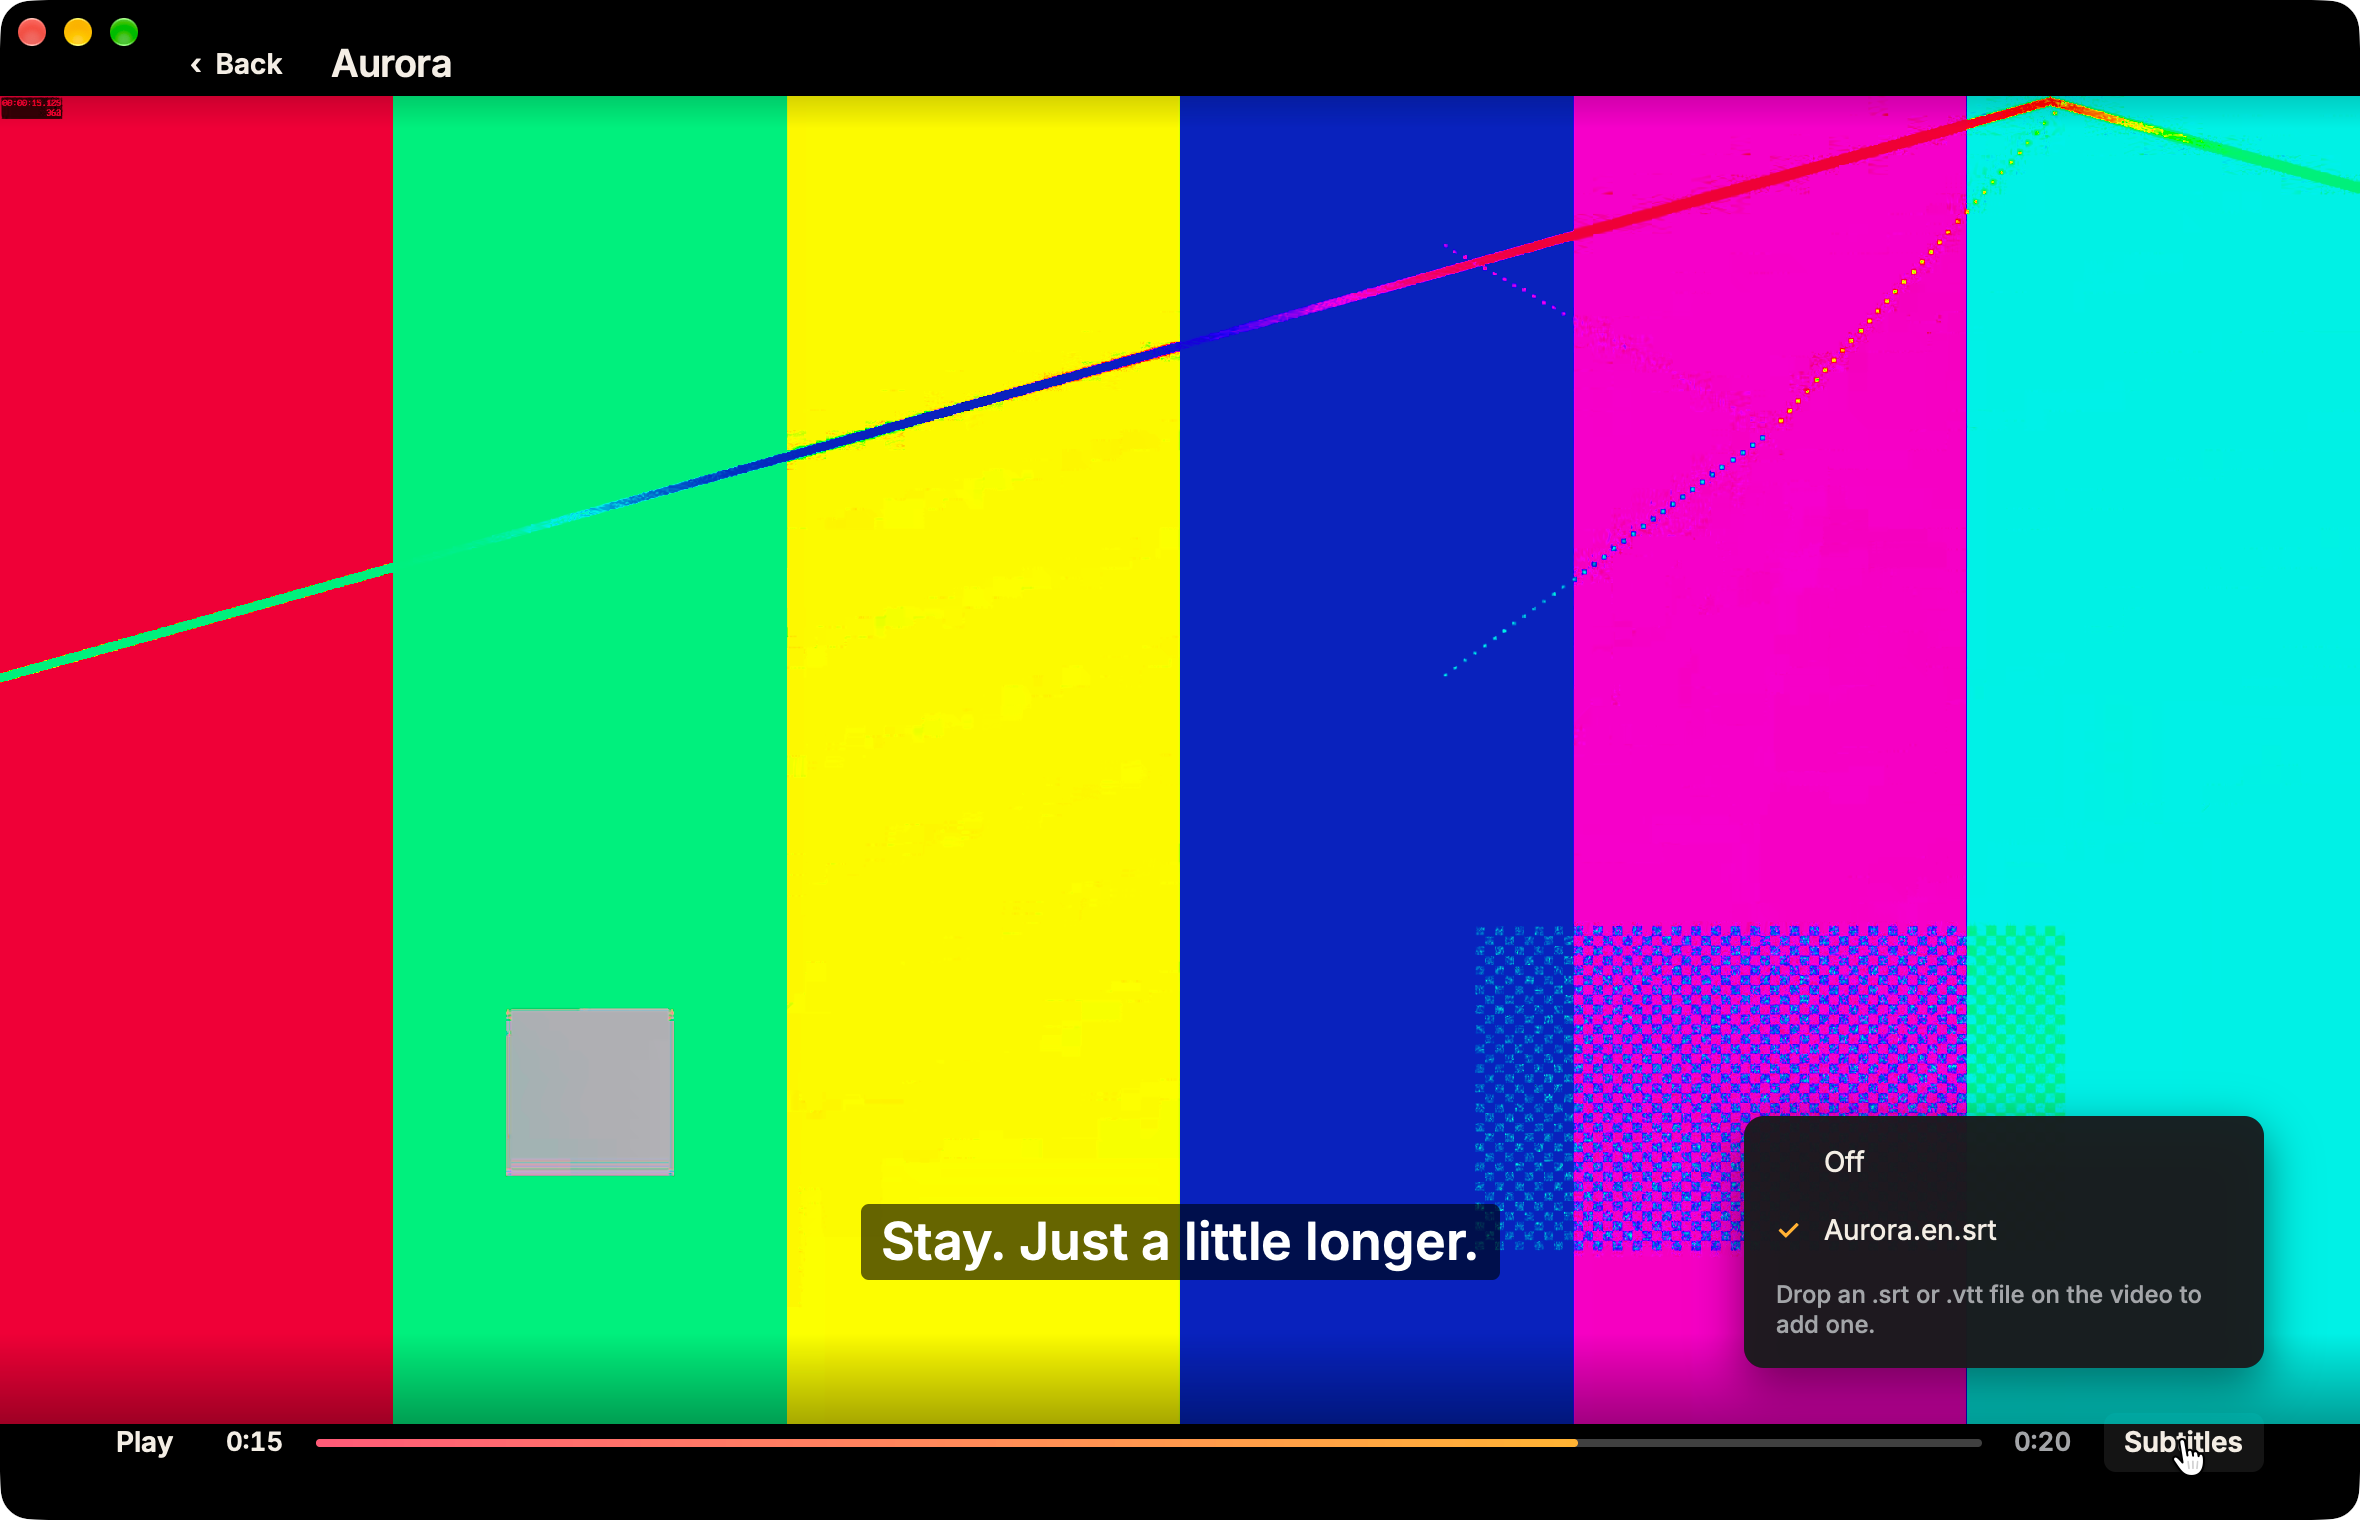
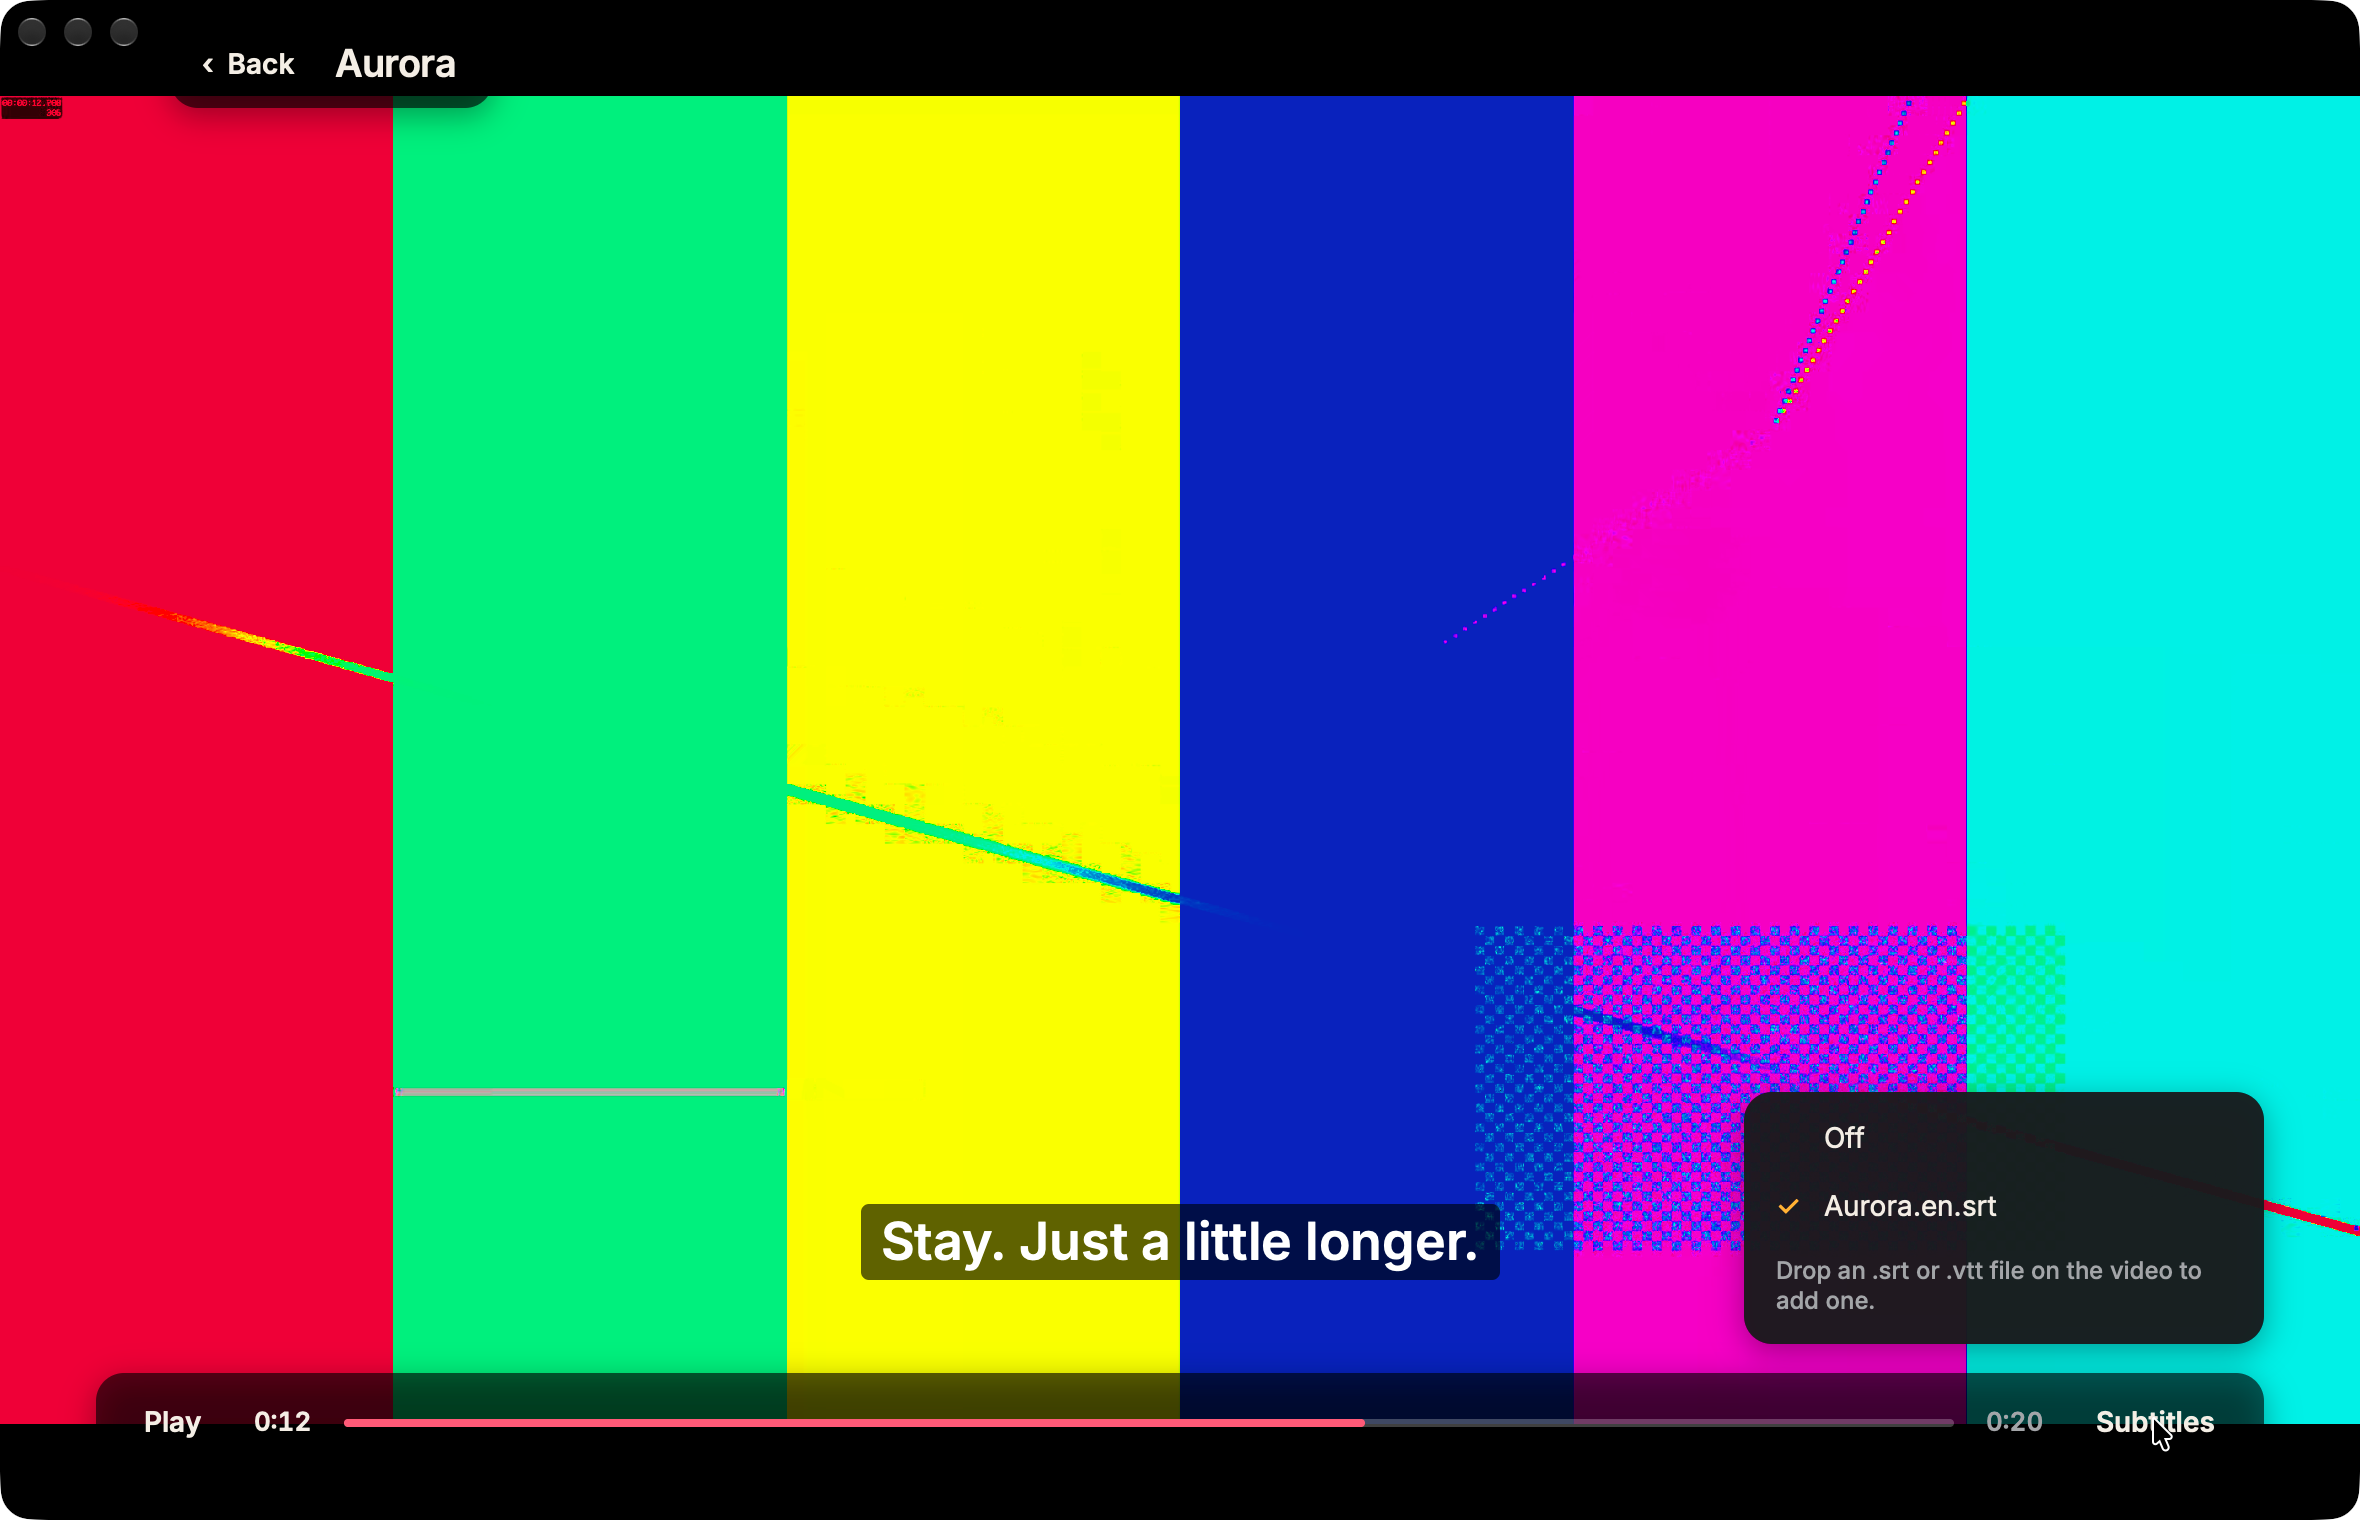
player: flat controls, no gradients (Ryan's rule)
The top and bottom gradient scrims are replaced by flat, darkened, rounded
surfaces with a soft shadow (Back and the title in one, the transport bar in
the other, inset by the gutter), and the seek bar's played part is a flat
coral instead of the coral-to-amber gradient. The look is a handful of
constants at the top of the view code (SURFACE_RADIUS, surface(),
surface_shadow(), track(), played(), SUBTITLE, TIME) so it can be retuned
when the app's visual system (FLK-48b) is picked. The screenshot is retaken
with it.

Verified: clippy -D warnings (flicks-ui, flicks-desktop), wasm32 check of
flicks-ui and flicks-web, cargo test -p flicks-ui -p flicks-desktop; the
release app on this Mac (docs/images/m2-player.png).

diff --git a/crates/ui/src/player.rs b/crates/ui/src/player.rs
@@ -313,7 +313,7 @@ fn subtitles(cues: &[Cue], controls: bool) -> El {
                     .px(10.0)
                     .py(2.0)
                     .radius(4.0)
-                    .fill(Color::BLACK.alpha(0.6)),
+                    .fill(surface()),
             );
         }
     }
@@ -322,24 +322,50 @@ fn subtitles(cues: &[Cue], controls: bool) -> El {
     col().key("subtitles").pin(Some(48.0), None, Some(48.0), Some(bottom)).items_center().child(lines)
 }
 
+// The player's look, in one place to retune with the app's visual system: flat, darkened
+// surfaces over the video, no gradients.
 const SUBTITLE: rune::TextStyle = rune::TextStyle::new(26.0, 500.0).lh(34.0);
 const TIME: rune::TextStyle = rune::TextStyle::new(13.0, 550.0).features("'tnum' 1");
+const SURFACE_RADIUS: f32 = 14.0;
+/// What the controls and subtitles sit on.
+fn surface() -> Color {
+    Color::BLACK.alpha(0.62)
+}
+fn surface_shadow() -> Color {
+    Color::BLACK.alpha(0.35)
+}
+/// The seek bar's track and the part played.
+fn track() -> Color {
+    Color::WHITE.alpha(0.25)
+}
+fn played() -> Color {
+    style::coral()
+}
 
 fn top(p: &Screen, cx: &mut Cx<Flicks>) -> El {
     let left = cx.titlebar_inset() + 16.0;
+    let title = row()
+        .key("player-title")
+        .h(44.0)
+        .pl(6.0)
+        .pr(18.0)
+        .gap(10.0)
+        .center_y()
+        .radius(SURFACE_RADIUS)
+        .fill(surface())
+        .shadow(4.0, 16.0, surface_shadow())
+        .on_hover_change(over_controls)
+        .child(button("player-back", "‹  Back", Flicks::close_player))
+        .child(text(p.name.clone()).font(style::HEADING).color(style::text()).truncate());
     row()
         .key("player-top")
         .pin(Some(0.0), Some(0.0), Some(0.0), None)
-        .h(64.0)
+        .h(style::BAR_H)
         .pl(left.max(style::GUTTER))
         .pr(style::GUTTER)
-        .gap(14.0)
         .center_y()
-        .gradient(Color::BLACK.alpha(0.6), Color::BLACK.alpha(0.0))
         .window_drag()
-        .on_hover_change(over_controls)
-        .child(button("player-back", "‹  Back", Flicks::close_player))
-        .child(text(p.name.clone()).font(style::HEADING).color(style::text()).truncate())
+        .child(title)
 }
 
 fn bottom(p: &Screen) -> El {
@@ -352,9 +378,13 @@ fn bottom(p: &Screen) -> El {
         .h(20.0)
         .center_y()
         .cursor(Cursor::Pointer)
-        .child(el().w_full().h(4.0).radius(2.0).fill(Color::WHITE.alpha(0.25)).child(
-            el().w_frac(fraction).h_full().radius(2.0).linear_gradient(std::f32::consts::PI / 2.0, style::progress()),
-        ))
+        .child(
+            el().w_full()
+                .h(4.0)
+                .radius(2.0)
+                .fill(track())
+                .child(el().w_frac(fraction).h_full().radius(2.0).fill(played())),
+        )
         .on_drag(move |s: &mut Flicks, drag: &mut Drag, _: &mut Tx| {
             let Some(p) = &mut s.player else { return };
             let at = (drag.x / drag.w.max(1.0)).clamp(0.0, 1.0) as f64 * duration;
@@ -388,12 +418,13 @@ fn bottom(p: &Screen) -> El {
     bar = bar.child(menu_button("subtitle-menu", "Subtitles", Menu::Subtitles));
     let mut panel = col()
         .key("player-bottom")
-        .pin(Some(0.0), None, Some(0.0), Some(0.0))
-        .px(style::GUTTER)
-        .pt(40.0)
-        .pb(24.0)
-        .gap(10.0)
-        .gradient(Color::BLACK.alpha(0.0), Color::BLACK.alpha(0.7));
+        .pin(Some(style::GUTTER), None, Some(style::GUTTER), Some(24.0))
+        .px(14.0)
+        .py(10.0)
+        .gap(8.0)
+        .radius(SURFACE_RADIUS)
+        .fill(surface())
+        .shadow(4.0, 16.0, surface_shadow());
     if let Some(notice) = &p.notice {
         panel = panel.child(text(notice.clone()).font(style::SMALL).color(style::error()));
     }
@@ -431,12 +462,12 @@ fn menu_panel(p: &Screen, menu: Menu) -> El {
     let mut list = col()
         .key("player-menu")
         .transition(Transition::offset(0.0, 8.0).combined(Transition::opacity()))
-        .pin(None, None, Some(style::GUTTER), Some(76.0))
+        .pin(None, None, Some(style::GUTTER), Some(88.0))
         .w(260.0)
         .padding(6.0)
-        .radius(10.0)
+        .radius(SURFACE_RADIUS)
         .fill(style::raised().alpha(0.96))
-        .shadow(8.0, 24.0, Color::BLACK.alpha(0.5));
+        .shadow(4.0, 16.0, surface_shadow());
     for (i, (label, on, command)) in options.into_iter().enumerate() {
         let command = std::cell::Cell::new(Some(command));
         let pick = move |s: &mut Flicks| {
